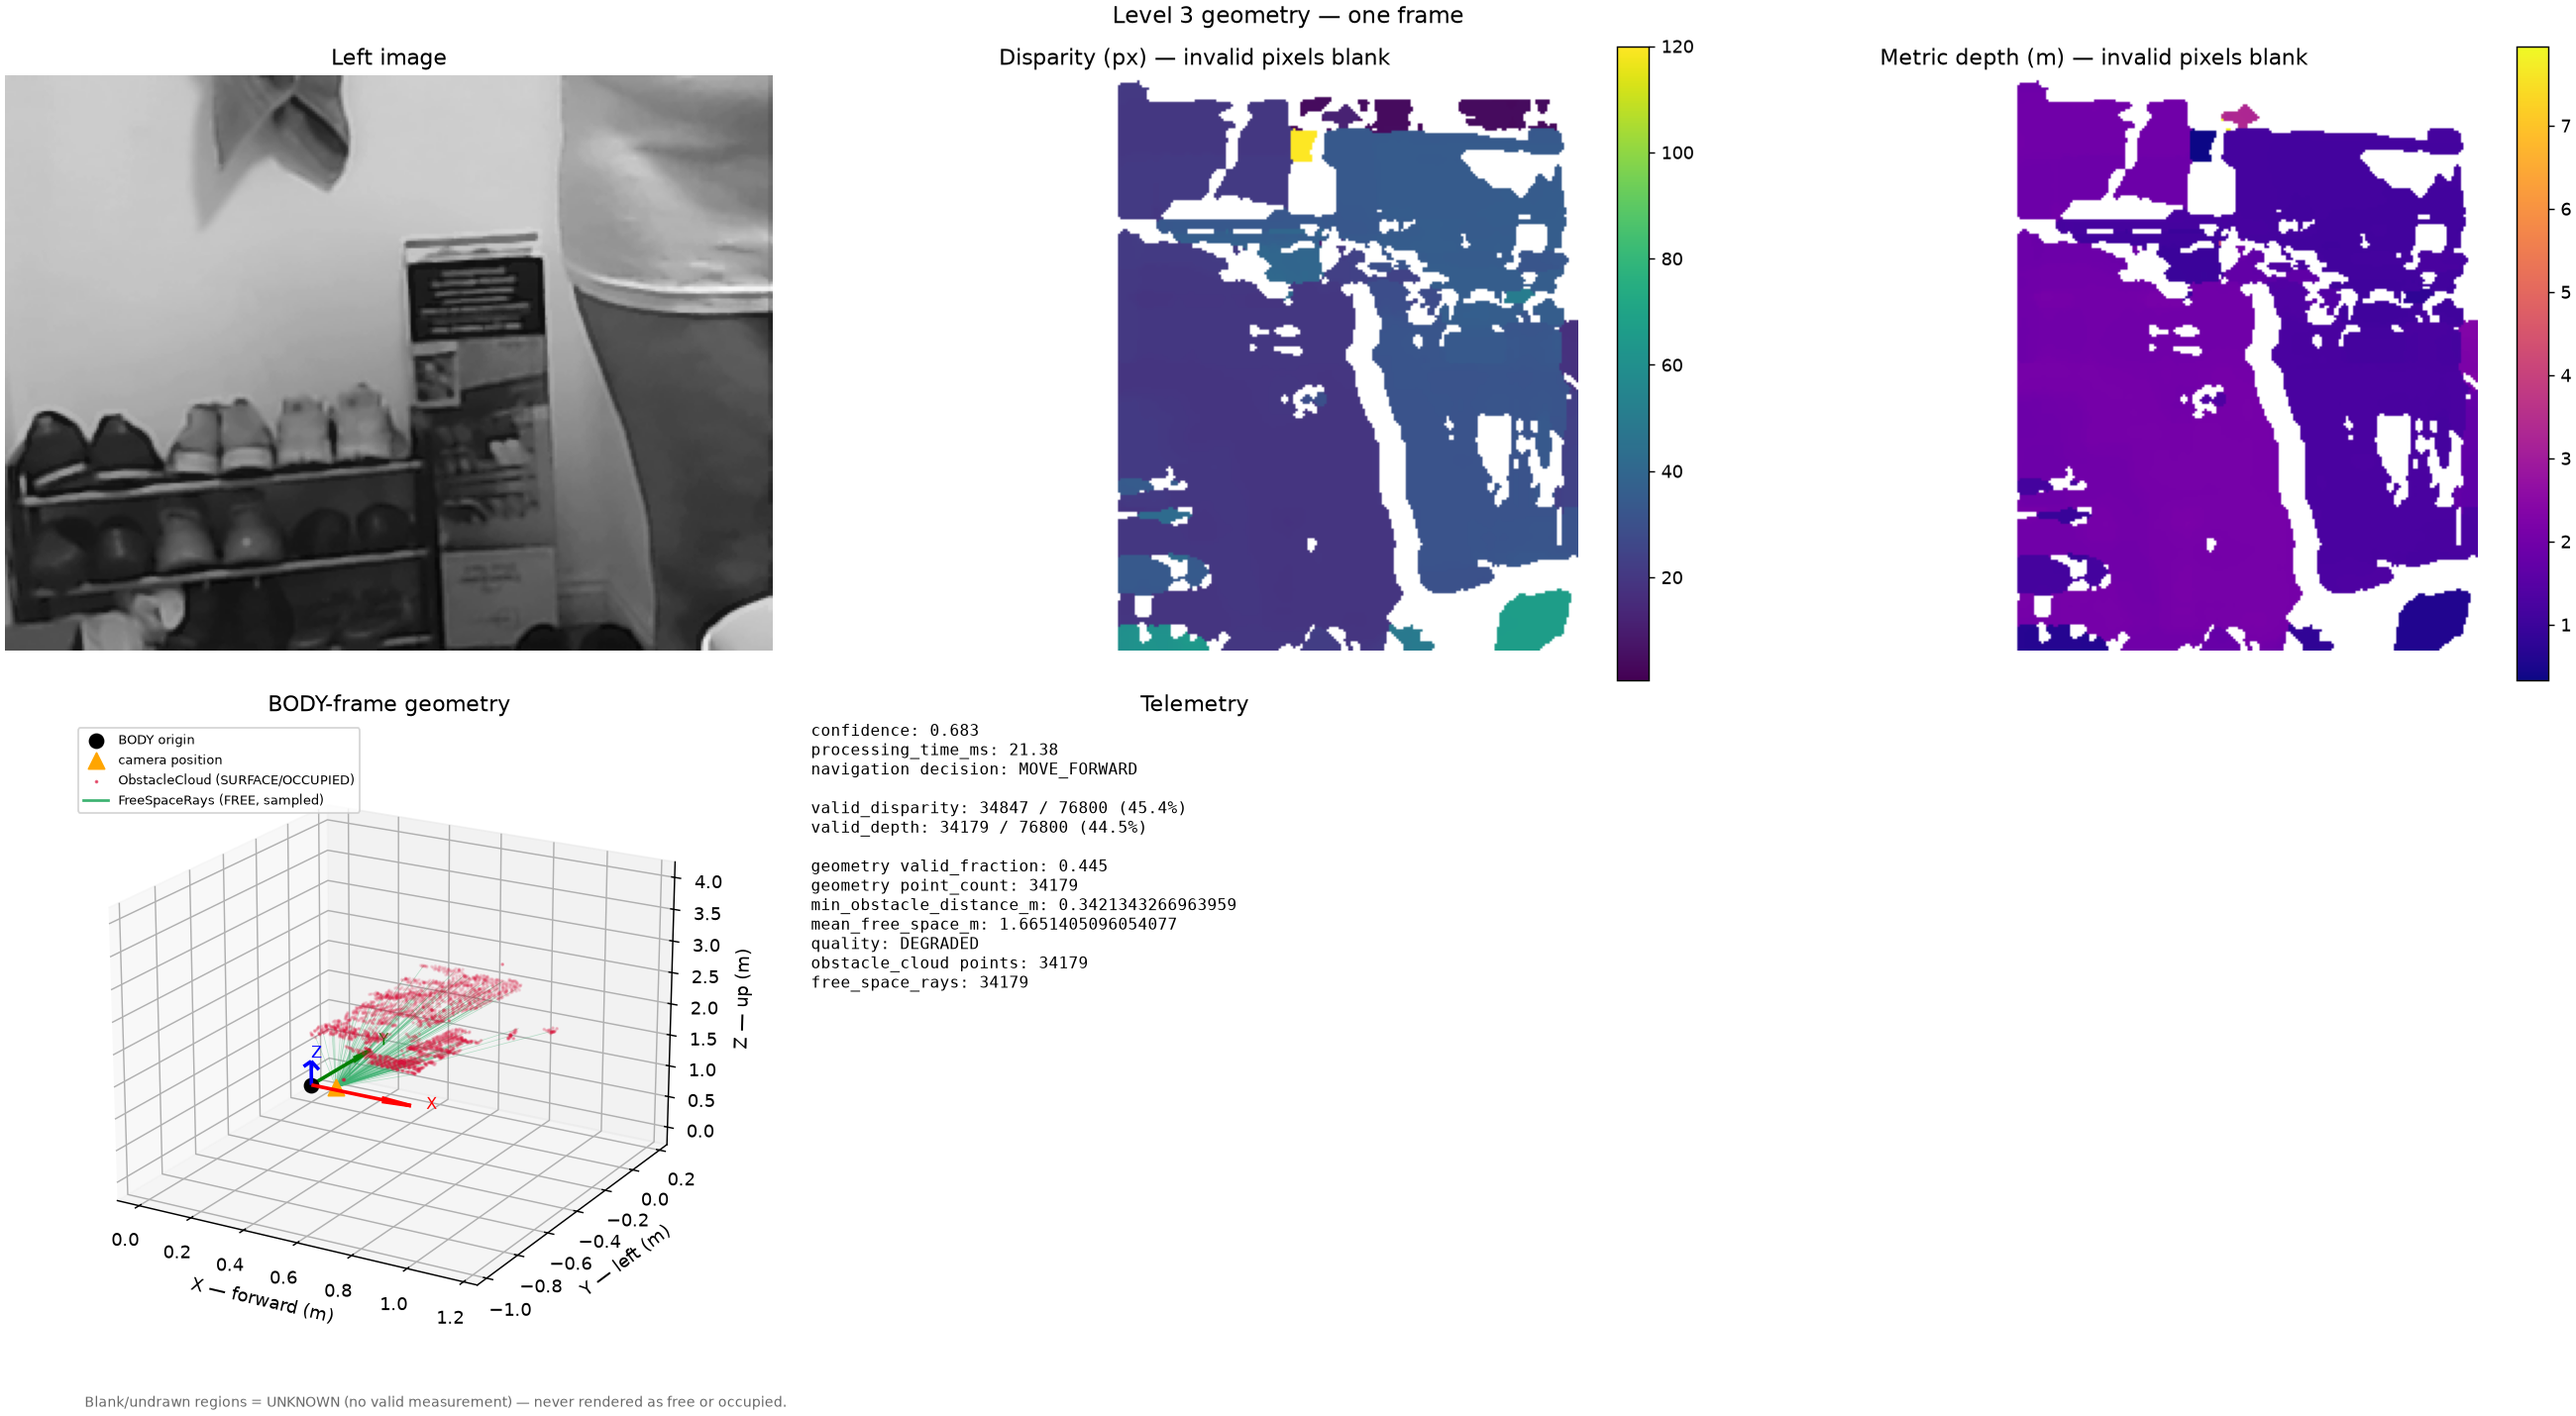
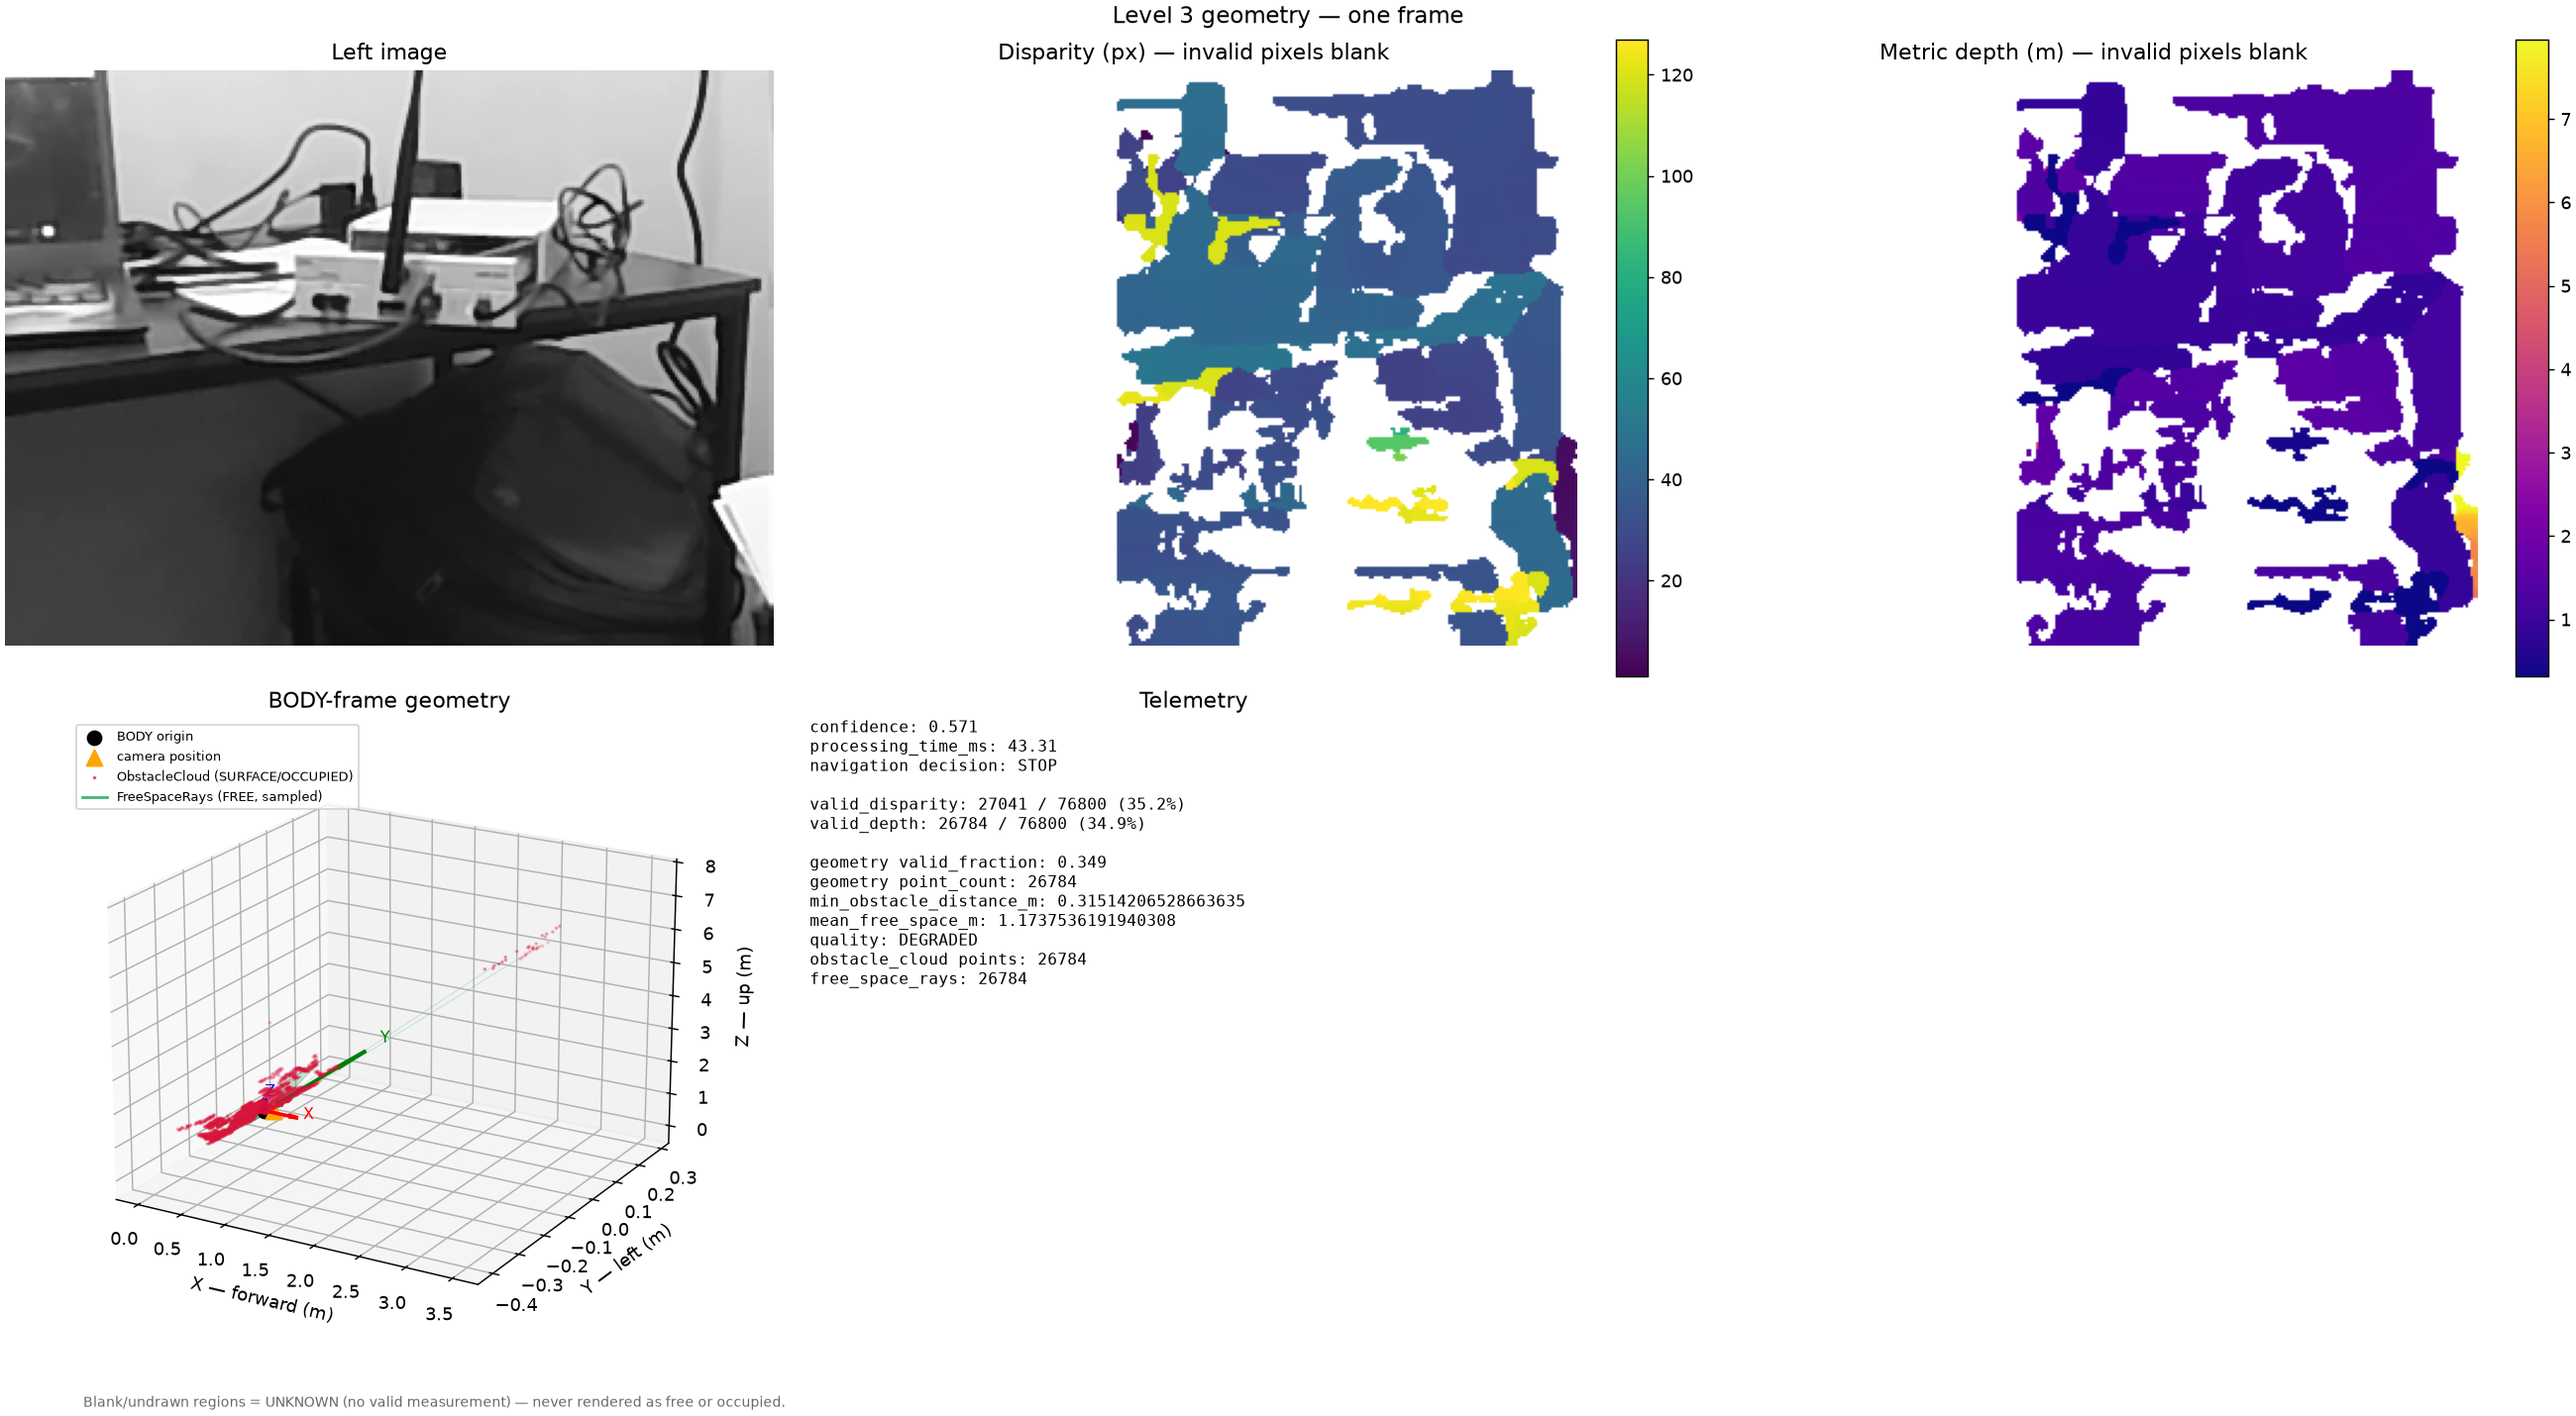
Recapture the Level 3 README snapshot/GIF with a richer real scene
New capture (desk/monitor/cables/chair) replaces the sparser E7-session
originals for docs/assets/09_level3_healthy_scene.png and
10_level3_live_demo.gif — same filenames, so README.md picks them up
automatically, no link changes needed.

Updated VALIDATION_REPORT.md's E7 "Generated artifacts" description,
which had named the old scene's specific values (navigation decision
MOVE_FORWARD) — now describes the actual re-captured content (STOP,
DEGRADED, a real nearby obstacle at ~0.32m) instead of stale claims.

No engine, contract, or test changes. 422 tests still passing.

diff --git a/docs/VALIDATION_REPORT.md b/docs/VALIDATION_REPORT.md
@@ -397,7 +397,7 @@ Real calibrated USB global-shutter stereo rig, `/dev/video0`, `examples/e7_live_
 Placed in the repository's existing `docs/assets/` structure, continuing its established numbering:
 - `docs/assets/07_level3_baseline.png` — baseline real scene, DEGRADED, SLOW_DOWN-adjacent state
 - `docs/assets/08_level3_degraded_occlusion.png` — real partial occlusion, navigation decision `SLOW_DOWN`
-- `docs/assets/09_level3_healthy_scene.png` — real clear scene, navigation decision `MOVE_FORWARD`, contrasting directly with the occlusion frame above
+- `docs/assets/09_level3_healthy_scene.png` / `docs/assets/10_level3_live_demo.gif` — re-captured (post-freeze) desk/monitor scene, `DEGRADED`, navigation decision `STOP` (a real nearby obstacle at ~0.32m drives this, not a defect) — regenerate anytime with `python examples/capture_readme_snapshot.py` / `python examples/generate_demo_gif.py`, both with a 6-second on-screen countdown to reposition the scene first
 
 Reproduce: `pip install -e ".[viz]"` then `python examples/visualize_level3.py --live` (or `--left/--right` with saved `.npy` frames). No large raw recordings were committed — only the three rendered PNGs above.
 
